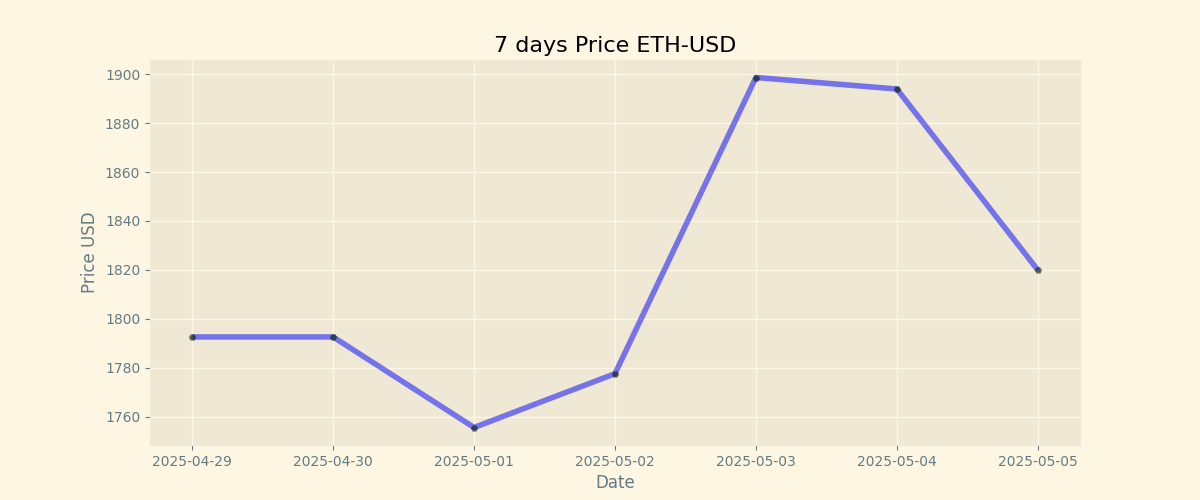
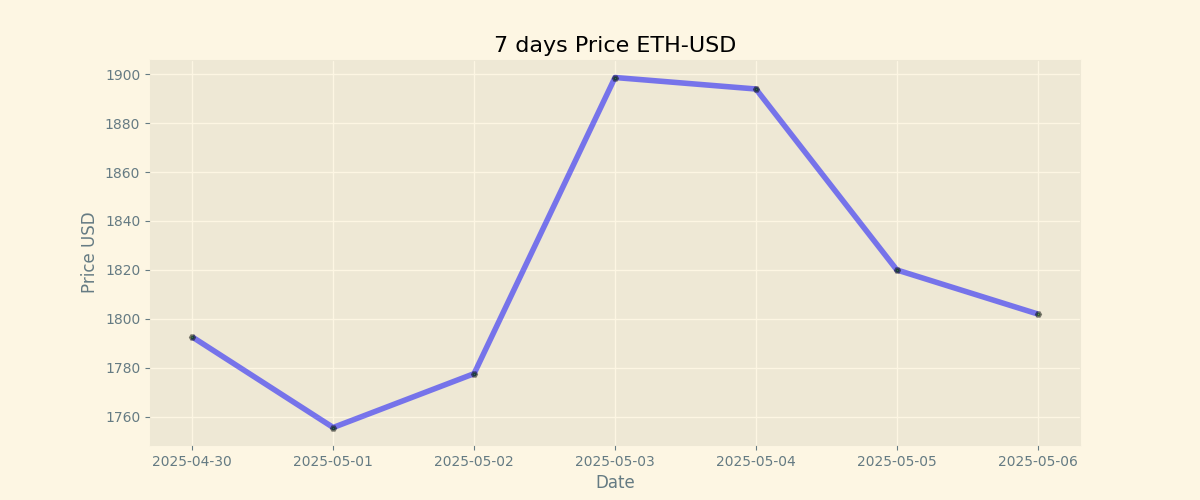
Duty Updates 2025-05-06

diff --git a/README.md b/README.md
@@ -9,8 +9,8 @@
 
 | Currency | Price           |
 | -------- | --------------- |
-| **BTC**  | **$ 97997.0** |
-| **ETH**  | **$ 1820.0** |
+| **BTC**  | **$ 97198.09** |
+| **ETH**  | **$ 1802.0** |
 
 ## BTC chart
 
